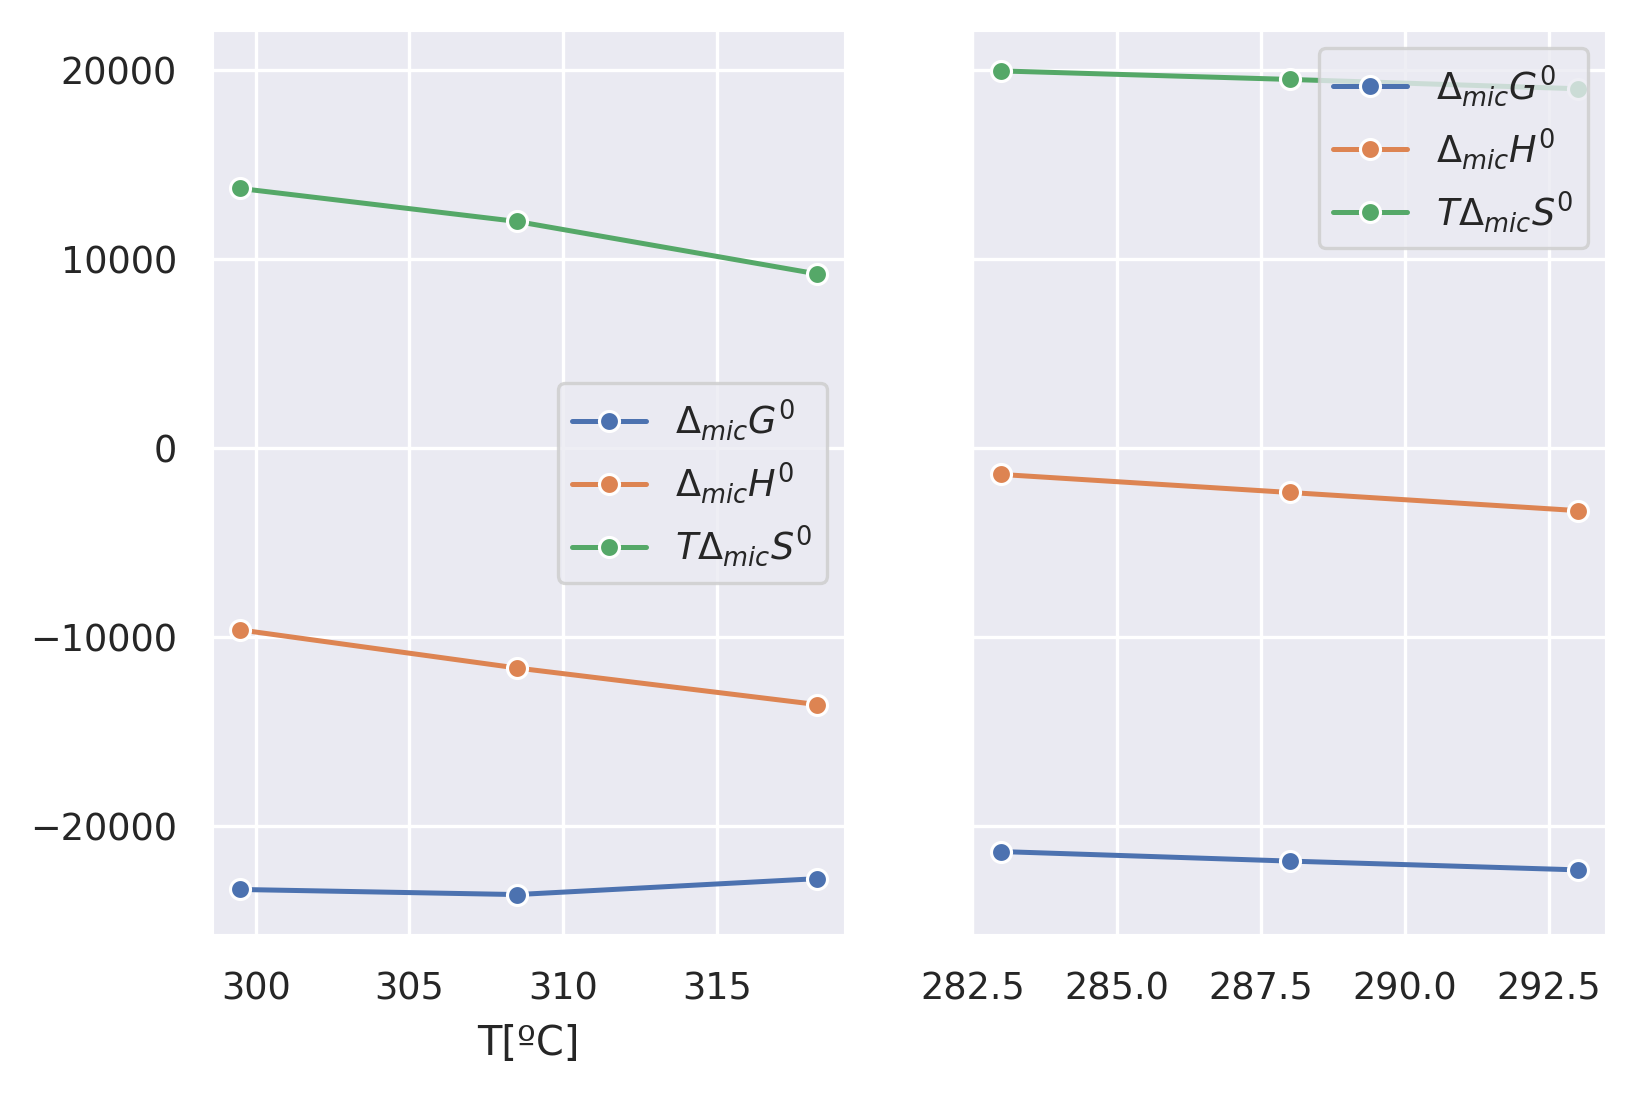
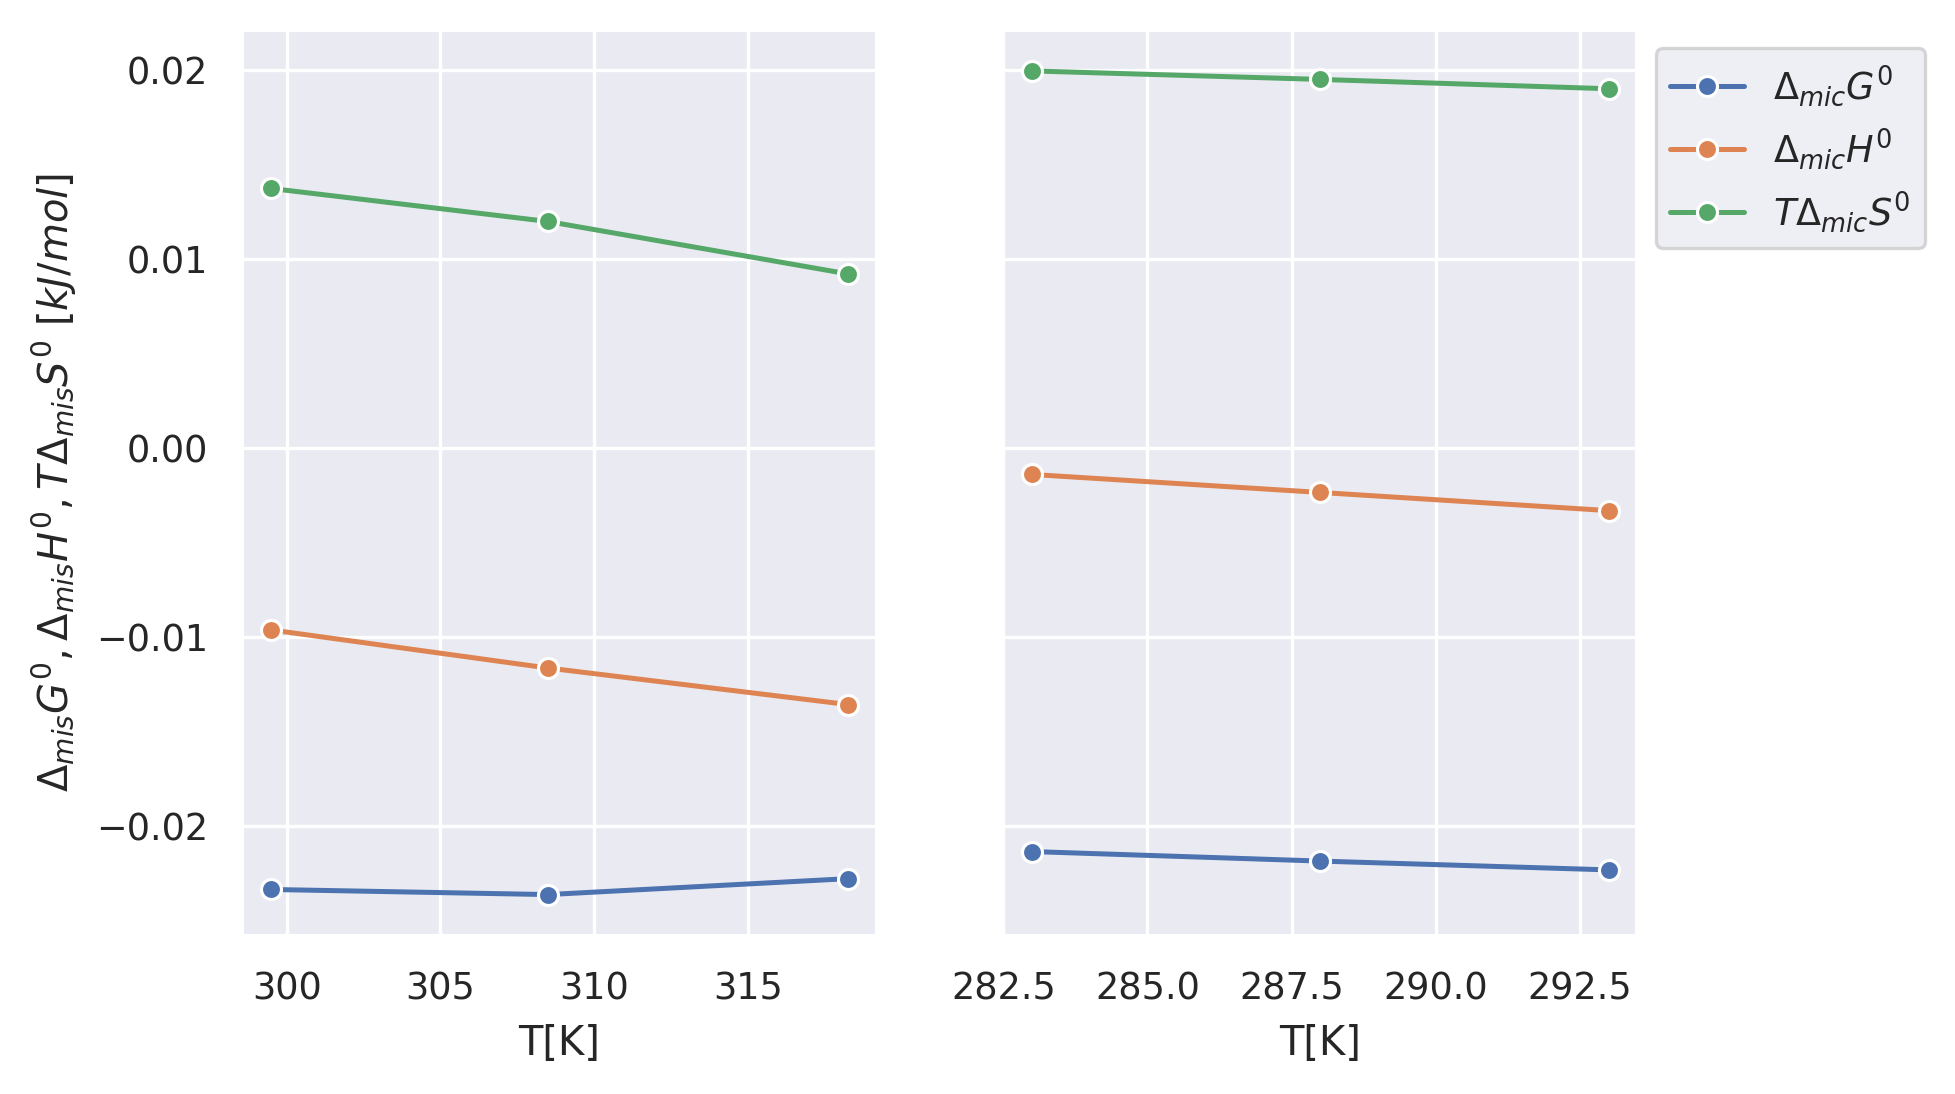
terminado :D

diff --git a/calculos.py b/calculos.py
@@ -298,7 +298,7 @@ ax.set(
     xlabel=r'$\alpha$'
 )
 plt.legend(bbox_to_anchor=(1.01,1.05), loc="upper left")
-plt.savefig('figuras/alfa_cuadrativa.png',dpi=300)
+plt.savefig('figuras/alfa_cuadrativa.png',dpi=300,bbox_inches='tight')
     
 #%% CALCULO Gomic
 #$$$$$$$$$$$$$$$$$$$$$$$$$$$$$$$$$$$$$$$$$$$$$$$$$$$$$$$$$$$$
@@ -469,7 +469,10 @@ for i in range(len(Temps[:-2])):
     print(f"{Temps[i]:>15}{Go_lista[i]:>15.8g}{H_lista[i]:>15.8g}{S_lista[i]:>15.8g}")
 # %% Figura termo vs T
 fig,axes = plt.subplots(nrows=1,ncols=2,sharey=True)
-
+#lo paso a kJ en vez de joules
+Go_lista*=1e-3
+H_lista*=1e-3
+S_lista*=1e-3
 #nuestros datos
 gibss=sns.lineplot(
     x=Temps[3:-2],
@@ -521,9 +524,15 @@ sns.lineplot(
     ax=axes[1],
     label=r'$T\Delta_{mic}S^0$'
 )
+
+plt.legend(bbox_to_anchor=(1,1),loc='upper left')
+axes[0].legend_=None
 axes[0].set(
-    xlabel="T[ºC]",
-    ylabel="$\Delta_{mis}G0$"
+    xlabel="T[K]",
+    ylabel=r"$\Delta_{mis}G^0,\Delta_{mis}H^0,T\Delta_{mis}S^0\ \left[kJ/mol\right]$"
+)
+axes[1].set(
+    xlabel="T[K]"
 )
 plt.savefig('figuras/TermovsT.png',dpi=300,bbox_inches='tight')
 # %%
